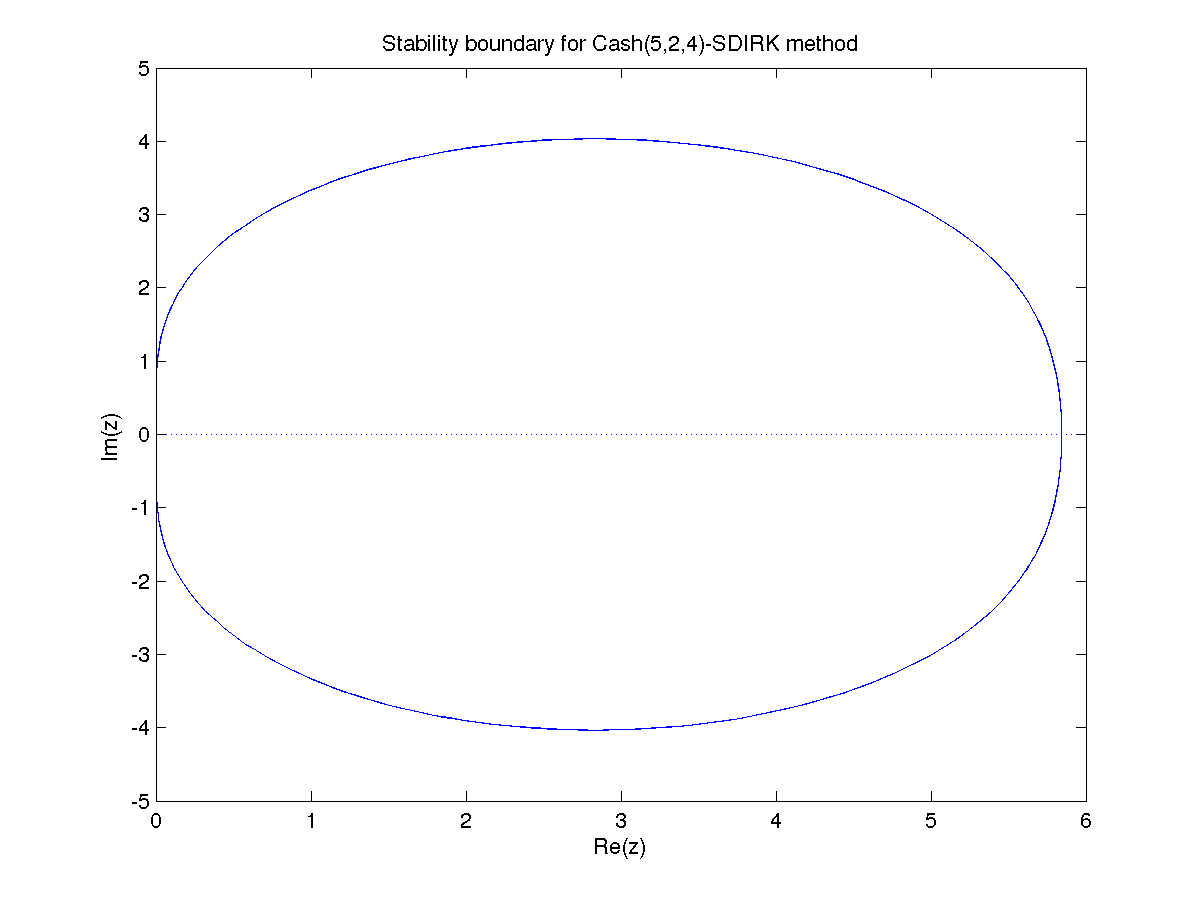
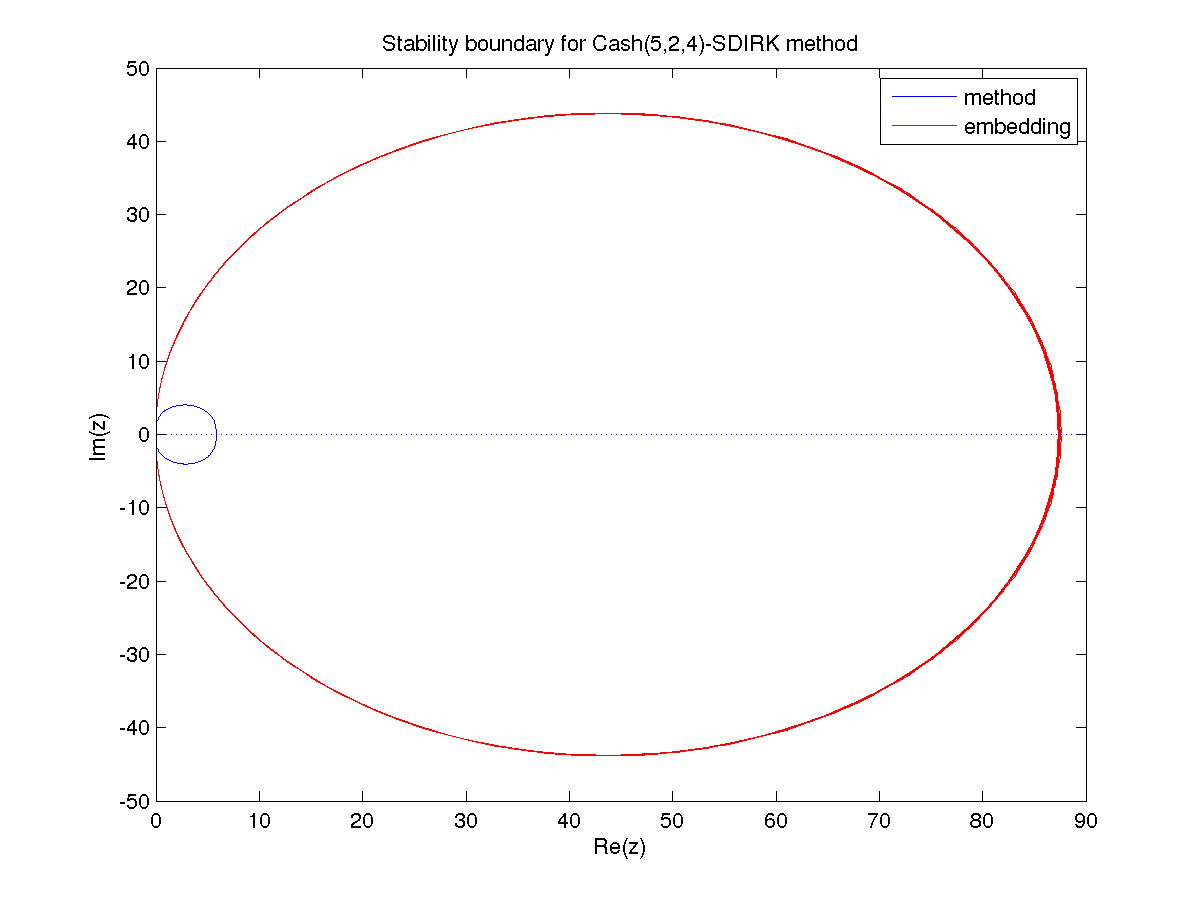
Fixed stability region plots for last 2 methods; updated documentation.

diff --git a/doc/guide/source/mathematics/Butcher.rst b/doc/guide/source/mathematics/Butcher.rst
@@ -58,9 +58,14 @@ understand the method.  Since all complex numbers with unit magnitude
 may be written as :math:`e^{i\theta}` for some value of :math:`theta`,
 we perform the following algorithm to trace out this boundary.
 
-1. Define an array of values ``Theta``.  Since we wish for a
+1. efine an array of values ``Theta``.  Since we wish for a
    smooth curve, and since we wish to trace out the entire boundary,
-   we choose 800 linearly-spaced points from 0 to :math:`8\pi`.
+   we choose 10,000 linearly-spaced points from 0 to :math:`16\pi`.
+   Since some angles will correspond to multiple locations on the
+   stability boundary, by going beyond :math:`2\pi` we ensure that all
+   boundary locations are plotted, and by using such a fine
+   discretization the Newton method is more likely to converge to the
+   root closest to the previous boundary point, ensuring a smooth plot.
 
 2. For each value :math:`\theta \in` ``Theta``, we solve the nonlinear
    equation 
@@ -80,11 +85,12 @@ we perform the following algorithm to trace out this boundary.
 3. We then plot the resulting :math:`\eta` values that trace the
    stability region boundary.
 
-The value :math:`\eta_0 = -\varepsilon + 0i` is always within the
-stability region for a stable IVP method, so in each of the following
-pictures, the region including :math:`\eta_0` constitutes :math:`S`.
-Resultingly, methods whose linear stability boundary is located entirely in
-the right half-plane indicate an `A-stable` method.
+We note that for any stable IVP method, the value :math:`\eta_0 =
+-\varepsilon + 0i` is always within the stability region.  So in each
+of the following pictures, the interior of the stability region is the
+connected region that includes :math:`\eta_0`.  Resultingly, methods
+whose linear stability boundary is located entirely in the right
+half-plane indicate an `A-stable` method.
 
 
 
@@ -458,7 +464,8 @@ SDIRK 2(1)
 ^^^^^^^^^^^^^^^^^^^^^^^^^^^^
 
 Butcher table number 11 for :func:`ARKodeSetIRKTableNum()`.  This is
-the default 2nd order implicit method.
+the default 2nd order implicit method.  Both the method and embedding
+are A- and B-stable.
 
 .. math::
 
@@ -485,7 +492,8 @@ the default 2nd order implicit method.
 Billington
 ^^^^^^^^^^^^^^^^^^^^^^^^^^^^
 
-Butcher table number 12 for :func:`ARKodeSetIRKTableNum()`.
+Butcher table number 12 for :func:`ARKodeSetIRKTableNum()`.  Here, the
+higher-order method is less stable than the lower-order embedding.
 
 .. math::
 
@@ -514,7 +522,9 @@ Butcher table number 12 for :func:`ARKodeSetIRKTableNum()`.
 TRBDF2
 ^^^^^^^^^^^^^^^^^^^^^^^^^^^^
 
-Butcher table number 13 for :func:`ARKodeSetIRKTableNum()`.
+Butcher table number 13 for :func:`ARKodeSetIRKTableNum()`.  As with
+Billington, here the higher-order method is less stable than the
+lower-order embedding.  
 
 .. math::
 
@@ -543,7 +553,8 @@ Butcher table number 13 for :func:`ARKodeSetIRKTableNum()`.
 Kvaerno(4,2,3)
 ^^^^^^^^^^^^^^^^^^^^^^^^^^^^
 
-Butcher table number 14 for :func:`ARKodeSetIRKTableNum()`.
+Butcher table number 14 for :func:`ARKodeSetIRKTableNum()`.  Both the
+method and embedding are A-stable; additionally the method is L-stable.
 
 .. math::
 
@@ -562,8 +573,7 @@ Butcher table number 14 for :func:`ARKodeSetIRKTableNum()`.
    :align: center
    
    Linear stability region for the Kvaerno(4,2,3) method.  The method's
-   region is outlined in blue; the plotting approach failed to
-   converge for the embedding, so it is not shown.
+   region is outlined in blue; the embedding's region is in red.
 
 
 
@@ -575,7 +585,8 @@ ARK3(2)4L[2]SA (implicit)
 
 Butcher table number 15 for :func:`ARKodeSetIRKTableNum()`.  This is
 the default 3rd order implicit method, and the implicit portion of the
-default 3rd order additive method. 
+default 3rd order additive method.  Both the method and embedding are
+A-stable; additionally the method is L-stable.
 
 .. math::
 
@@ -605,7 +616,8 @@ default 3rd order additive method.
 Cash(5,2,4)
 ^^^^^^^^^^^^^^^^^^^^^^^^^^^^
 
-Butcher table number 16 for :func:`ARKodeSetIRKTableNum()`.
+Butcher table number 16 for :func:`ARKodeSetIRKTableNum()`.  Both the
+method and embedding are A-stable; additionally the method is L-stable.  
 
 .. math::
 
@@ -625,8 +637,7 @@ Butcher table number 16 for :func:`ARKodeSetIRKTableNum()`.
    :align: center
    
    Linear stability region for the Cash(5,2,4) method.  The method's
-   region is outlined in blue; the plotting approach failed to
-   converge for the embedding, so it is not shown.
+   region is outlined in blue; the embedding's region is in red.
 
 
 
@@ -637,7 +648,8 @@ Butcher table number 16 for :func:`ARKodeSetIRKTableNum()`.
 Cash(5,3,4)
 ^^^^^^^^^^^^^^^^^^^^^^^^^^^^
 
-Butcher table number 17 for :func:`ARKodeSetIRKTableNum()`.
+Butcher table number 17 for :func:`ARKodeSetIRKTableNum()`.  Both the
+method and embedding are A-stable; additionally the method is L-stable.  
 
 .. math::
 
@@ -668,7 +680,8 @@ SDIRK 5(4)
 ^^^^^^^^^^^^^^^^^^^^^^^^^^^^
 
 Butcher table number 18 for :func:`ARKodeSetIRKTableNum()`.  This is
-the default 4th order implicit method.
+the default 4th order implicit method.  Here, the method is both A-
+and L-stable, although the embedding has reduced stability.
 
 .. math::
 
@@ -700,7 +713,8 @@ the default 4th order implicit method.
 Kvaerno(5,3,4)
 ^^^^^^^^^^^^^^^^^^^^^^^^^^^^
 
-Butcher table number 19 for :func:`ARKodeSetIRKTableNum()`.
+Butcher table number 19 for :func:`ARKodeSetIRKTableNum()`.  Both the
+method and embedding are A-stable.  
 
 .. math::
 
@@ -732,7 +746,9 @@ ARK4(3)6L[2]SA (implicit)
 ^^^^^^^^^^^^^^^^^^^^^^^^^^^^
 
 Butcher table number 20 for :func:`ARKodeSetIRKTableNum()`.  This is
-the implicit portion of the default 4th order additive method.
+the implicit portion of the default 4th order additive method.  Both
+the method and embedding are A-stable; additionally the method is
+L-stable. 
 
 .. math::
 
@@ -764,7 +780,9 @@ the implicit portion of the default 4th order additive method.
 Kvaerno(7,4,5)
 ^^^^^^^^^^^^^^^^^^^^^^^^^^^^
 
-Butcher table number 21 for :func:`ARKodeSetIRKTableNum()`.
+Butcher table number 21 for :func:`ARKodeSetIRKTableNum()`.  Both the
+method and embedding are A-stable; additionally the method is
+L-stable.
 
 .. math::
 
@@ -799,7 +817,8 @@ ARK5(4)8L[2]SA (implicit)
 
 Butcher table number 22 for :func:`ARKodeSetIRKTableNum()`.  This is
 the default 5th order implicit method, and the implicit portion of the
-default 5th order additive method. 
+default 5th order additive method.  Both the method and embedding are
+A-stable; additionally the method is L-stable.   
 
 .. math::
 
